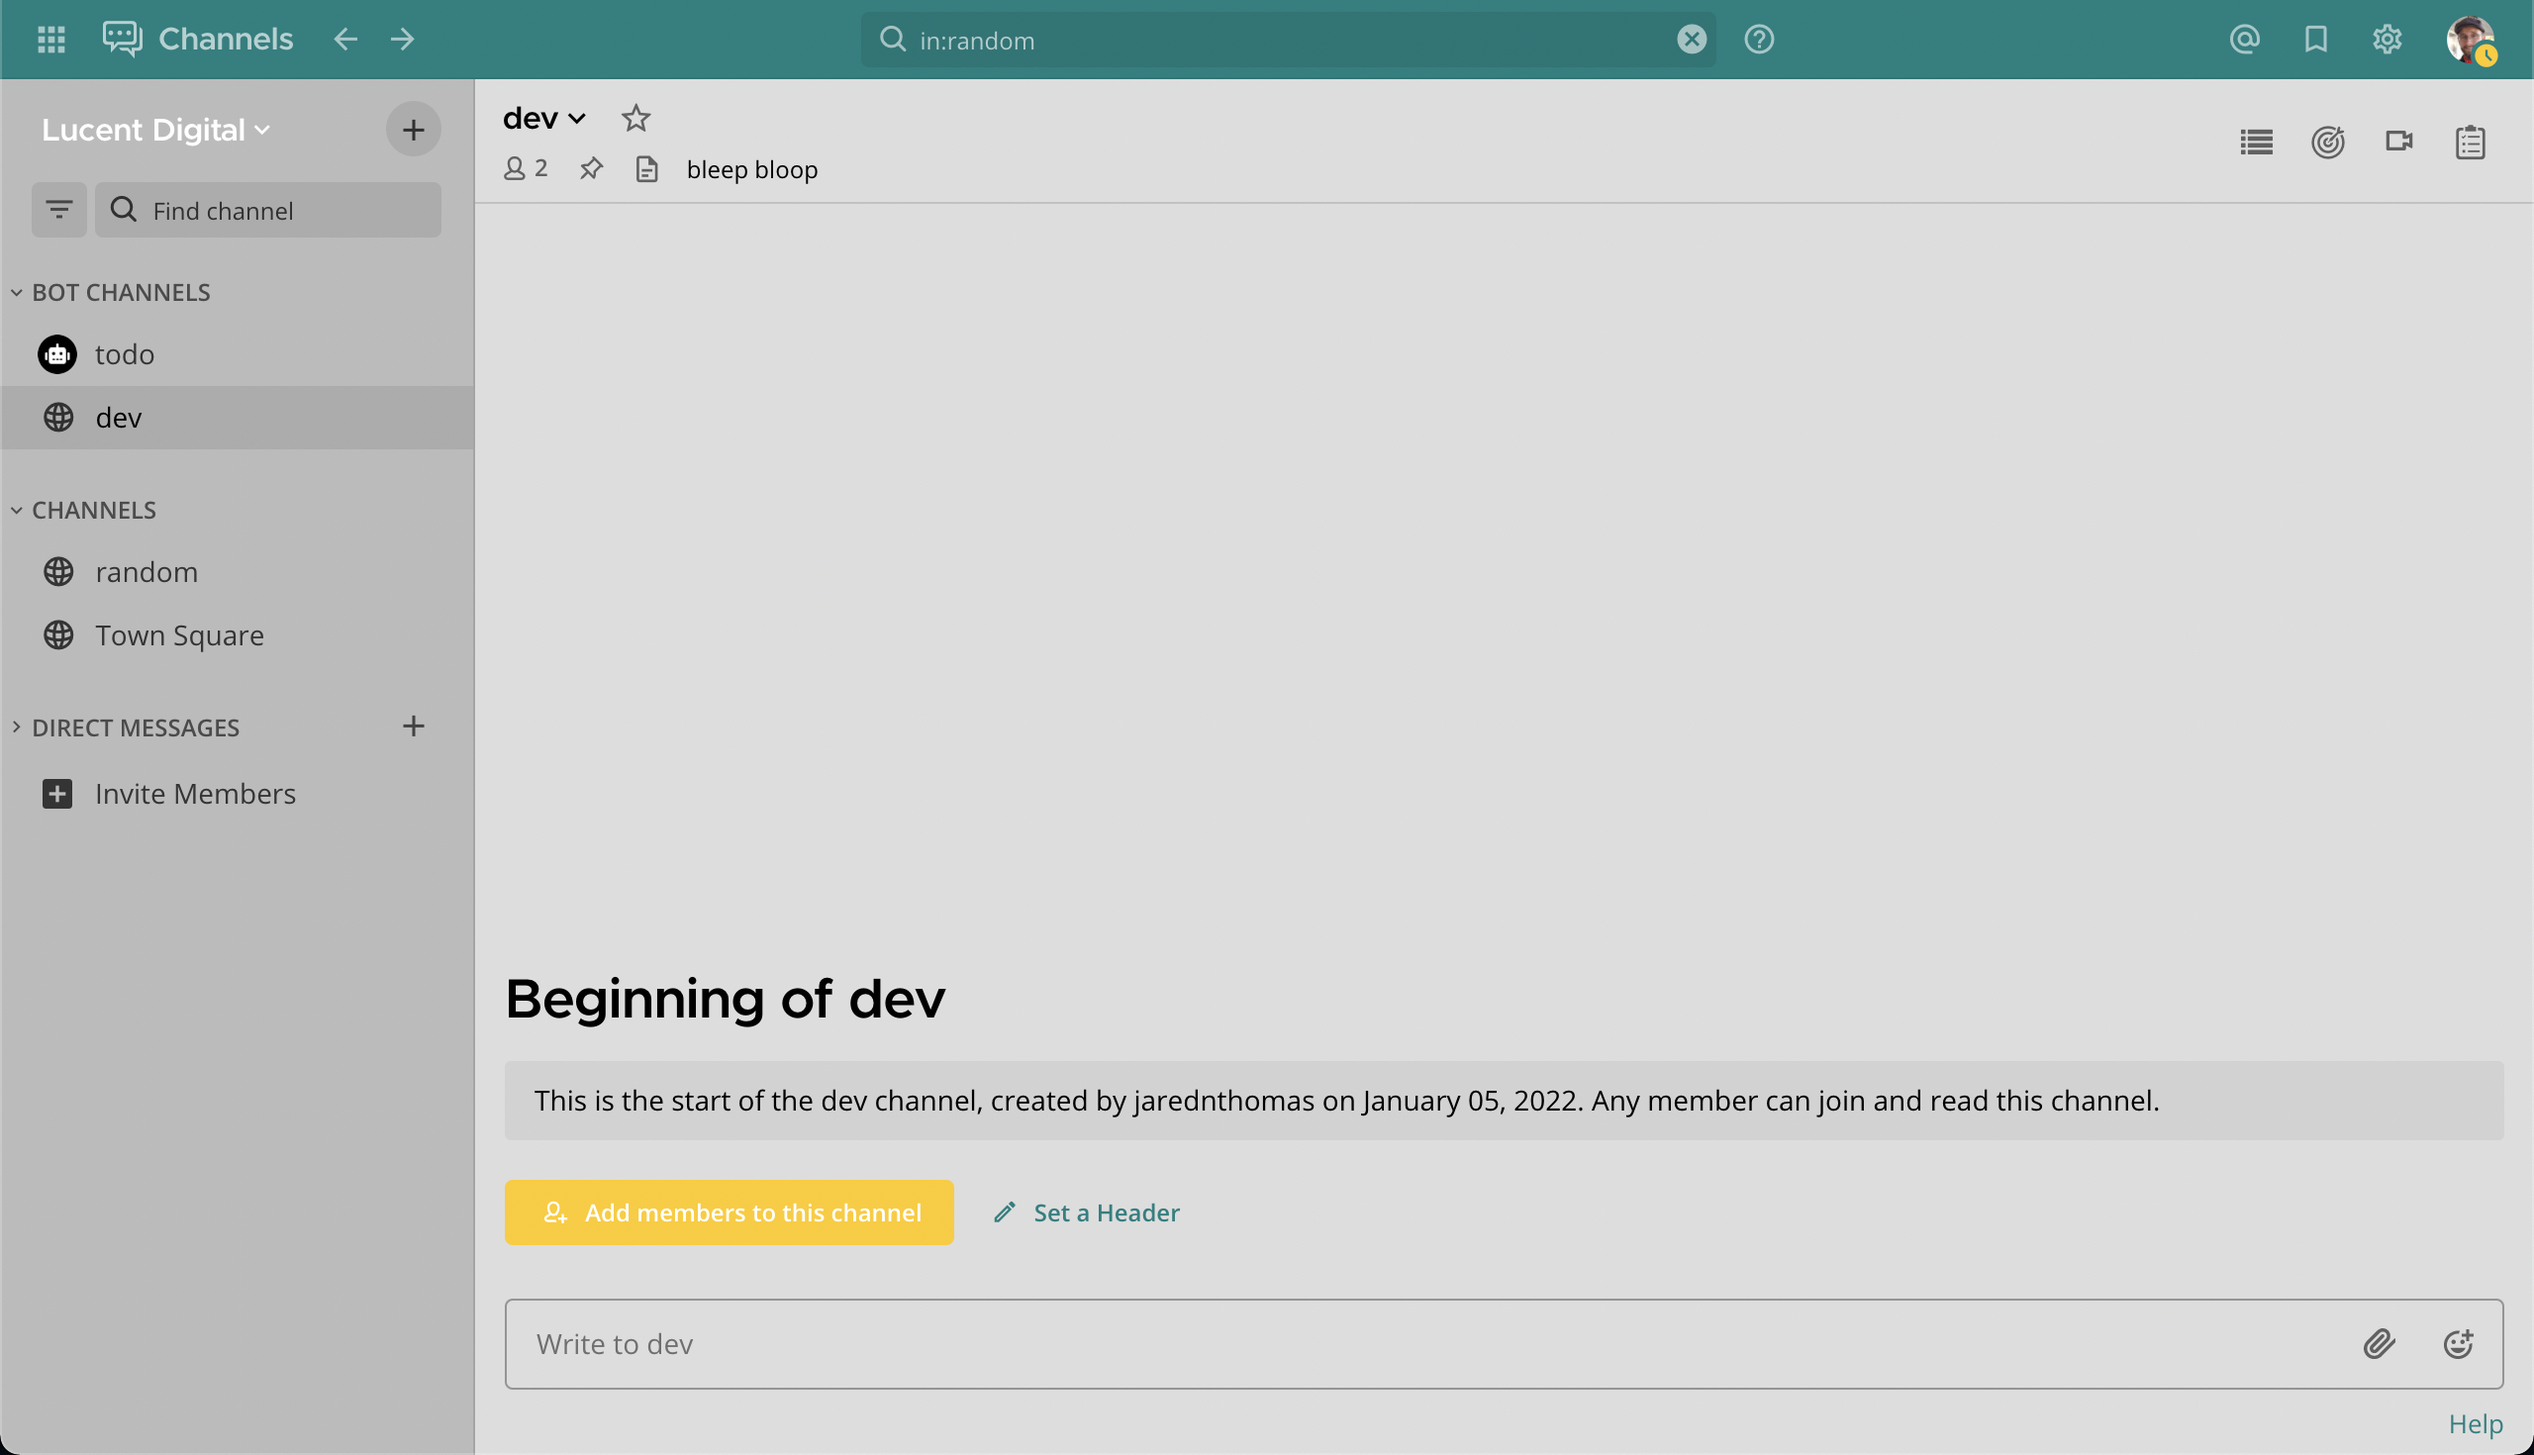
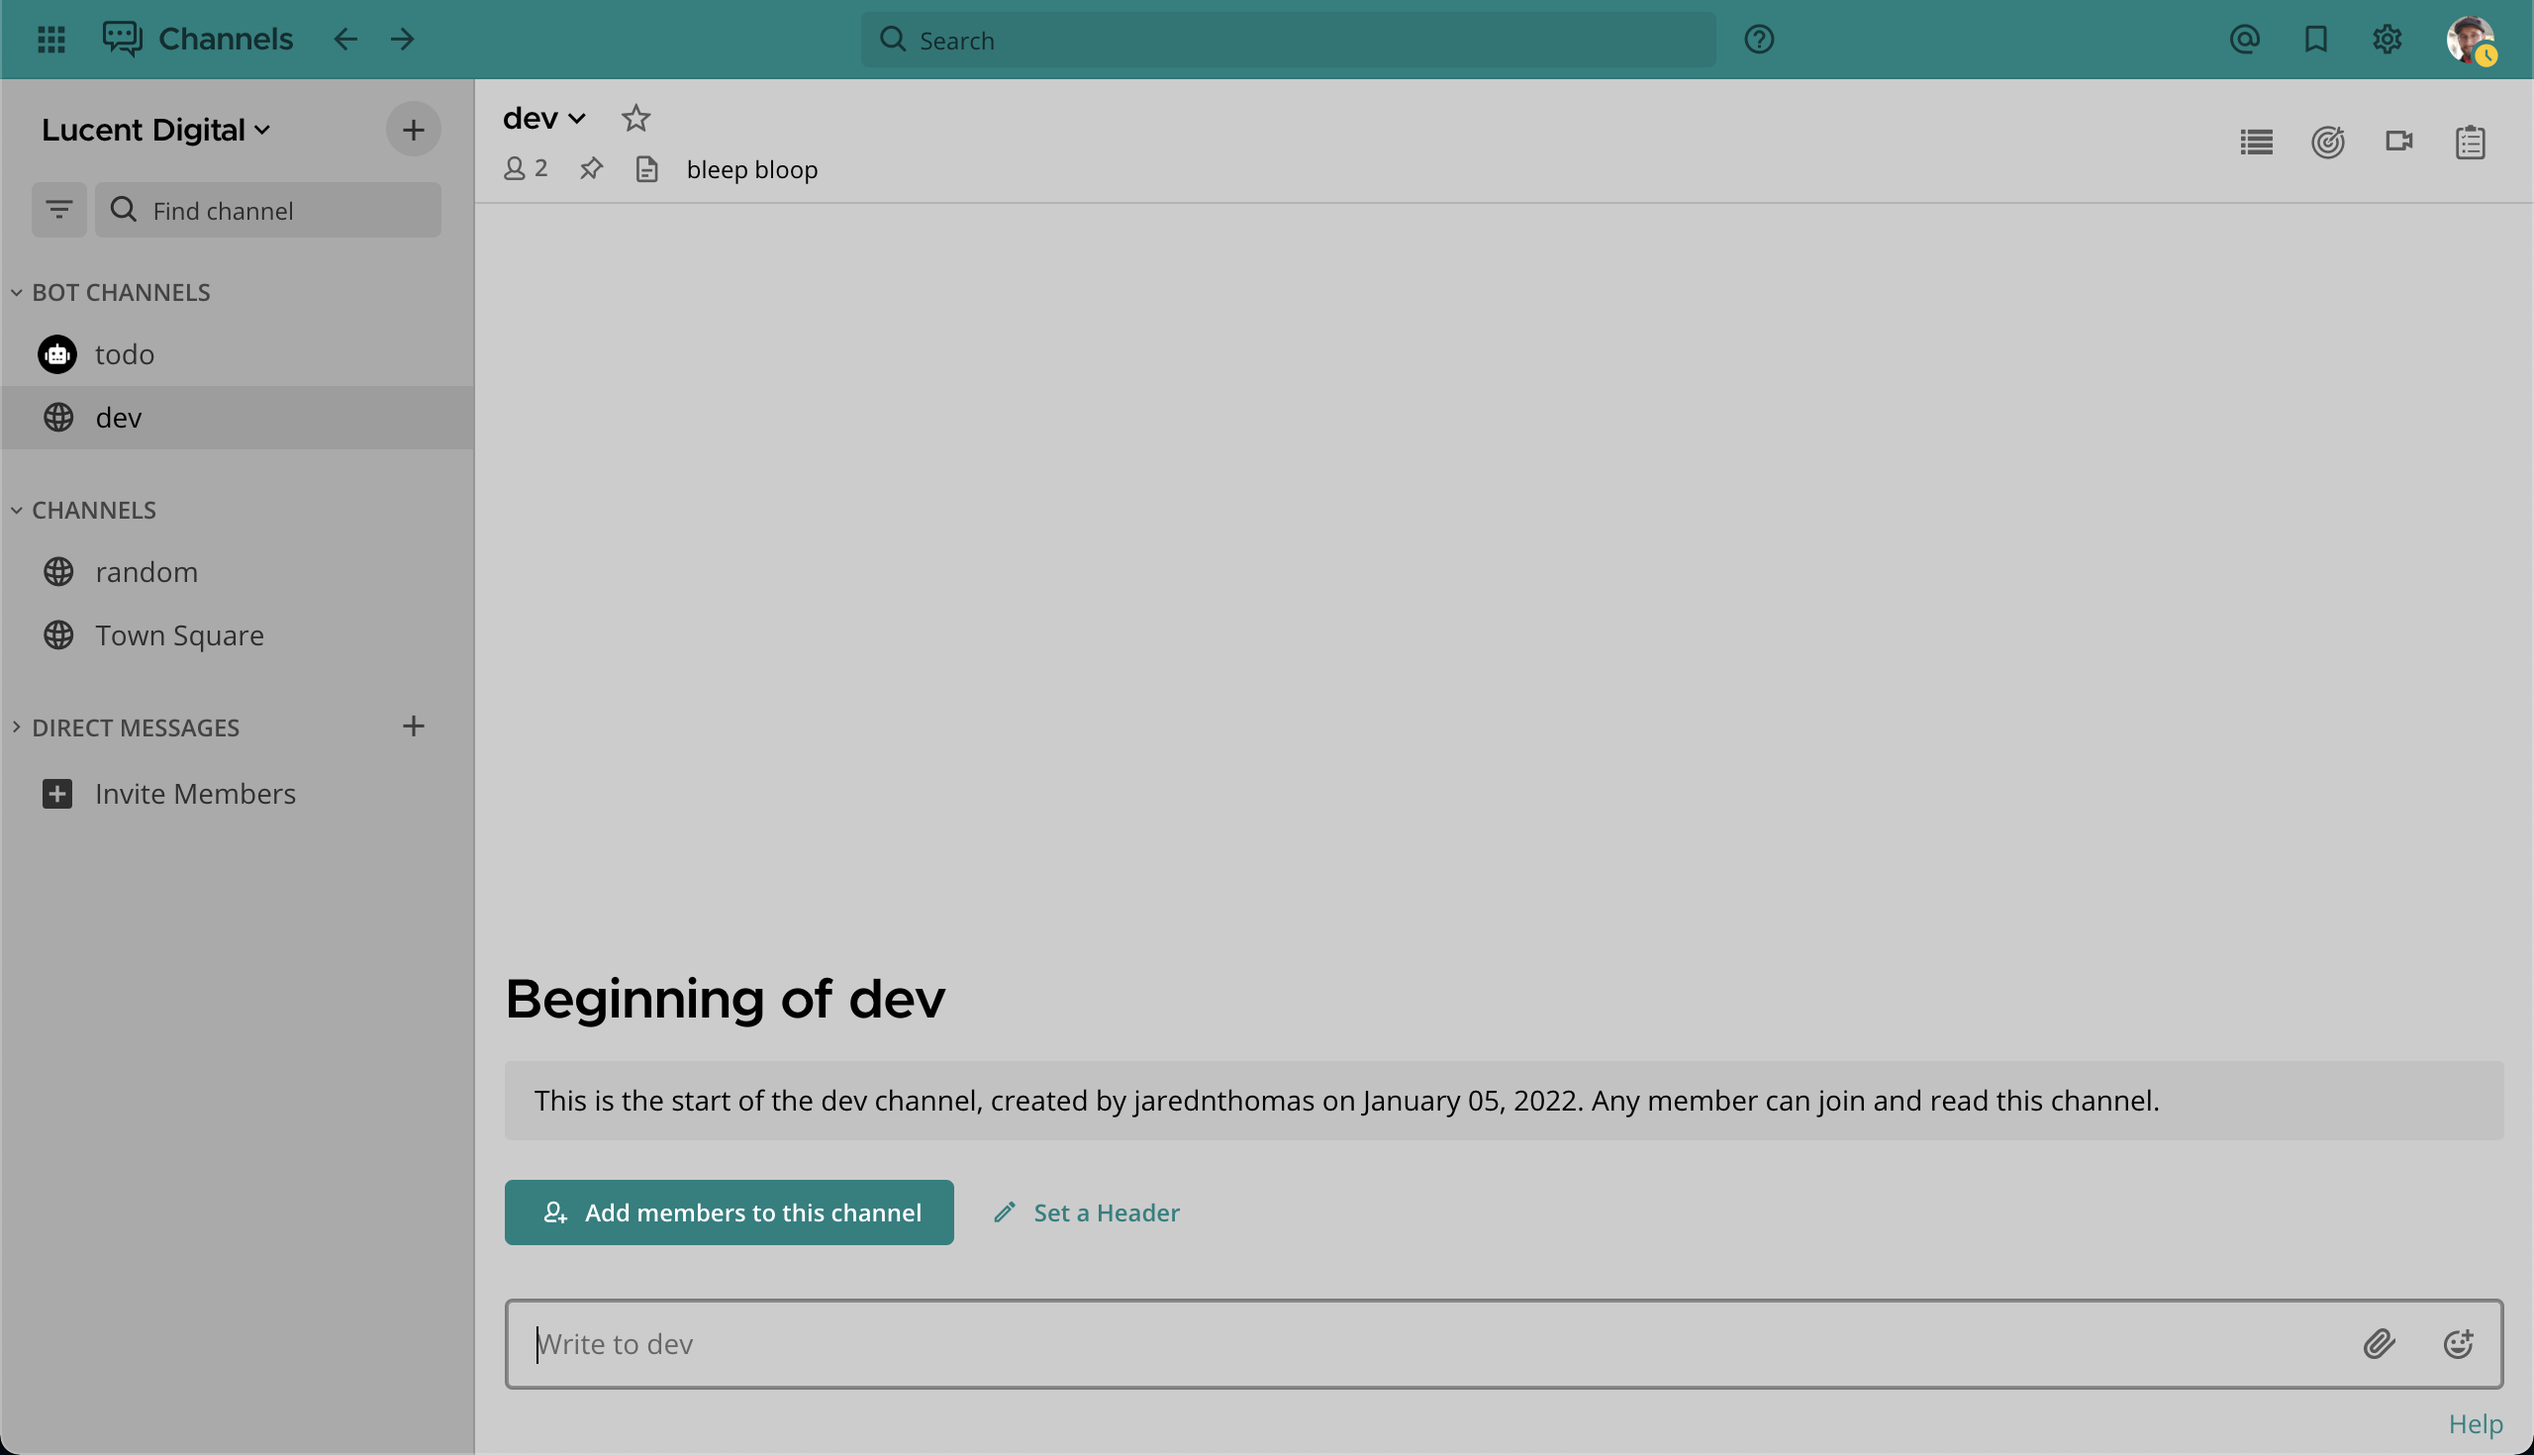
remade lucent more consistent with lucent dark

diff --git a/README.md b/README.md
@@ -1,12 +1,12 @@
 # mattermost-themes
 
 ### Instructions: 
-- Click the Settings icon (gear) in the top right of the Mattermost UI.
+- Click the Settings icon (gear) in the top right of the Mattermost UI
 
-- Navigate to `Dislay` -> `Theme` and enable `Custom Theme`. 
+- Navigate to `Dislay` -> `Theme` and enable `Custom Theme`
 
 - Paste any block of code below into the textarea labelled:
-*"Copy and paste to share theme colors:"*
+*"Copy and paste to share theme colors:"* and save
 
 ---
 
@@ -116,23 +116,23 @@
 
 ```
 {"codeTheme":"lucent",
-"centerChannelBg":"#dddddd",
+"centerChannelBg":"#cccccc",
 "centerChannelColor":"#000000",
-"sidebarBg":"#bbbbbb",
+"sidebarBg":"#aaaaaa",
 "sidebarText":"#000000",
-"sidebarTextHoverBg":"#008080",
-"sidebarUnreadText":"#aaaaaa",
+"sidebarTextHoverBg":"#999999",
+"sidebarUnreadText":"#ffffff",
 "sidebarTeamBarBg":"#008080",
 "sidebarHeaderBg":"#008080",
-"sidebarHeaderTextColor":"#ffffff",
+"sidebarHeaderTextColor":"#000000",
 "sidebarTextActiveBorder":"#1bba56",
 "sidebarTextActiveColor":"#1bba56",
-"mentionBg":"#008080",
+"mentionBg":"#FFCA05",
 "mentionBj":"#008080",
 "mentionColor":"#ffffff",
 "mentionHighlightBg":"#008080",
 "mentionHighlightLink":"#ffffff",
-"buttonBg":"#FFCA05",
+"buttonBg":"#008080",
 "buttonColor":"#ffffff",
 "newMessageSeparator":"#717171",
 "onlineIndicator":"#1bba56",
@@ -150,7 +150,7 @@
 ![](previews/lucent-dark.png)
 
 ```
-{"codeTheme":"lucent",
+{"codeTheme":"lucent-dark",
 "centerChannelBg":"#2b2b2b",
 "centerChannelColor":"#ffffff",
 "sidebarBg":"#1e1e1e",
@@ -184,7 +184,7 @@
 ![](previews/lucent-bold.png)
 
 ```
-{"codeTheme":"lucent",
+{"codeTheme":"lucent-bold",
 "centerChannelBg":"#134949",
 "centerChannelColor":"#ffffff",
 "sidebarBg":"#1e7171",
@@ -213,4 +213,4 @@
 
 ---
 
-More themes can be found at [https://avasconcelos114.github.io/mattermost-themes/](https://avasconcelos114.github.io/mattermost-themes/).
+More themes can be found at [https://avasconcelos114.github.io/mattermost-themes/](https://avasconcelos114.github.io/mattermost-themes/)
